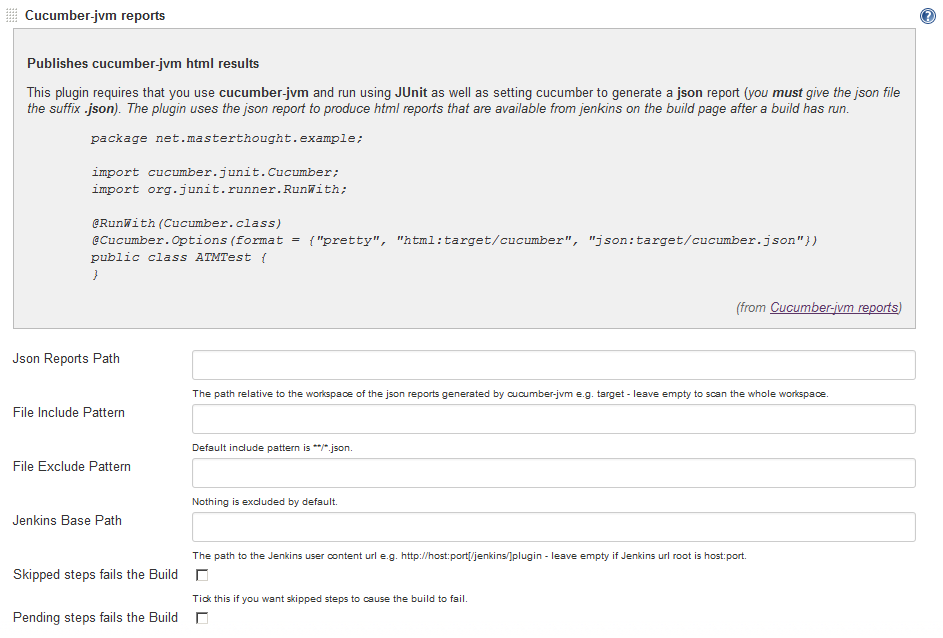
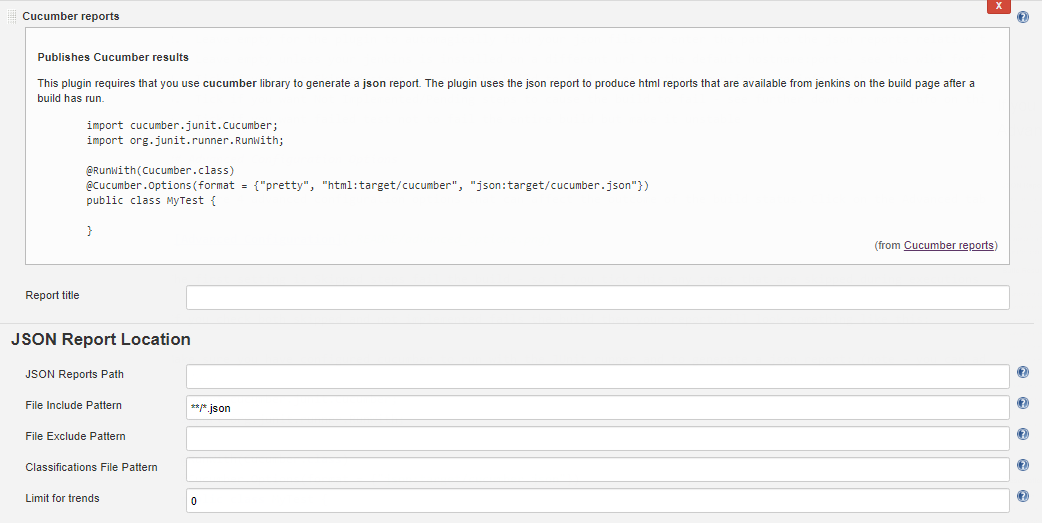
Publish multiple reports (#344)

diff --git a/src/main/java/net/masterthought/jenkins/CucumberReportPublisher.java b/src/main/java/net/masterthought/jenkins/CucumberReportPublisher.java
@@ -1,13 +1,8 @@
 package net.masterthought.jenkins;
 
-import java.io.File;
-import java.io.IOException;
-import java.io.InputStream;
-import java.io.Serializable;
-import java.util.ArrayList;
-import java.util.Collections;
-import java.util.List;
-import java.util.Properties;
+import java.io.*;
+import java.nio.charset.StandardCharsets;
+import java.util.*;
 
 import hudson.AbortException;
 import hudson.Extension;
@@ -50,6 +45,7 @@ public class CucumberReportPublisher extends Publisher implements SimpleBuildSte
     private final String fileIncludePattern;
     private String fileExcludePattern = "";
     private String jsonReportDirectory = "";
+    private String reportTitle = "";
 
     private int failedStepsNumber;
     private int skippedStepsNumber;
@@ -91,11 +87,13 @@ public class CucumberReportPublisher extends Publisher implements SimpleBuildSte
      */
     protected void keepBackwardCompatibility() {
         if (classifications == null) {
-            classifications = Collections.emptyList();
+            classifications = new ArrayList<>();
         }
         if (sortingMethod == null) {
             sortingMethod = SortingMethod.NATURAL.name();
         }
+        
+        reportTitle = StringUtils.defaultString(reportTitle);
     }
 
     private static void log(TaskListener listener, String message) {
@@ -145,6 +143,26 @@ public class CucumberReportPublisher extends Publisher implements SimpleBuildSte
         this.jsonReportDirectory = jsonReportDirectory;
     }
 
+    public String getReportTitle() {
+        return reportTitle;
+    }
+
+    @DataBoundSetter
+    public void setReportTitle(String reportTitle) {
+        this.reportTitle = StringUtils.isEmpty(reportTitle) ? "" : reportTitle.trim();
+    }
+
+    public String getDirectorySuffix() {
+        return StringUtils.isEmpty(this.reportTitle)
+                ? ""
+                : UUID.nameUUIDFromBytes(reportTitle.getBytes(StandardCharsets.UTF_8)).toString();
+    }
+
+    public String getDirectorySuffixWithSeparator() {
+        return StringUtils.isEmpty(this.reportTitle)
+                ? ""
+                : ReportBuilder.SUFFIX_SEPARATOR + getDirectorySuffix();
+    }
 
     public int getFailedStepsNumber() {
         return failedStepsNumber;
@@ -342,12 +360,27 @@ public class CucumberReportPublisher extends Publisher implements SimpleBuildSte
             throws InterruptedException, IOException {
 
         keepBackwardCompatibility();
+        if (StringUtils.isNotEmpty(reportTitle)) {
+
+            classifications.add(new Classification(Messages.Classification_ReportTitle(), reportTitle));
+        }
 
         generateReport(run, workspace, listener);
 
-        SafeArchiveServingRunAction caa = new SafeArchiveServingRunAction(run, new File(run.getRootDir(), ReportBuilder.BASE_DIRECTORY),
-                ReportBuilder.BASE_DIRECTORY, ReportBuilder.HOME_PAGE, CucumberReportBaseAction.ICON_NAME, Messages.SidePanel_DisplayName());
-        run.replaceAction(caa);
+        SafeArchiveServingRunAction caa = new SafeArchiveServingRunAction(
+                run,
+                new File(run.getRootDir(), ReportBuilder.BASE_DIRECTORY + getDirectorySuffixWithSeparator()),
+                ReportBuilder.BASE_DIRECTORY + getDirectorySuffixWithSeparator(),
+                ReportBuilder.HOME_PAGE,
+                CucumberReportBaseAction.ICON_NAME,
+                getActionName(),
+                getDirectorySuffixWithSeparator()
+        );
+        run.addAction(caa);
+    }
+
+    private String getActionName() {
+        return StringUtils.isEmpty(reportTitle) ? Messages.SidePanel_DisplayNameNoTitle() : String.format(Messages.SidePanel_DisplayName(), reportTitle);
     }
 
     private void generateReport(Run<?, ?> build, FilePath workspace, TaskListener listener) throws InterruptedException, IOException {
@@ -355,11 +388,9 @@ public class CucumberReportPublisher extends Publisher implements SimpleBuildSte
         log(listener, "Using Cucumber Reports version " + getPomVersion(listener));
 
         // create directory where trends will be stored
-        final File trendsDir = new File(build.getParent().getRootDir(), TRENDS_DIR);
-        if (!trendsDir.exists()) {
-            if (!trendsDir.mkdir()) {
-                throw new IllegalStateException("Could not create directory for trends: " + trendsDir);
-            }
+        final File trendsDir = new File(build.getParent().getRootDir(), TRENDS_DIR + getDirectorySuffixWithSeparator());
+        if (!trendsDir.exists() && !trendsDir.mkdirs()) {
+            throw new IllegalStateException("Could not create directory for trends: " + trendsDir);
         }
 
         // source directory (possibly on slave)
@@ -368,8 +399,13 @@ public class CucumberReportPublisher extends Publisher implements SimpleBuildSte
         FilePath inputDirectory = new FilePath(workspace, parsedJsonReportDirectory);
 
         File directoryForReport = build.getRootDir();
-        File directoryJsonCache = new File(directoryForReport, ReportBuilder.BASE_DIRECTORY + File.separatorChar + ".cache");
-        if (!directoryJsonCache.exists() && !directoryJsonCache.mkdirs()) {
+        File directoryJsonCache = new File(
+                directoryForReport,
+                ReportBuilder.BASE_DIRECTORY + getDirectorySuffixWithSeparator() + File.separatorChar + ".cache"
+        );
+        if (directoryJsonCache.exists()) {
+            throw new IllegalStateException("Cache directory " + directoryJsonCache + " already exists. Another report with the same title already generated?");
+        } else if (!directoryJsonCache.mkdirs()) {
             throw new IllegalStateException("Could not create directory for cache: " + directoryJsonCache);
         }
         // copies JSON files to cache...
@@ -398,6 +434,7 @@ public class CucumberReportPublisher extends Publisher implements SimpleBuildSte
 
         Configuration configuration = new Configuration(directoryForReport, projectName);
         configuration.setBuildNumber(buildNumber);
+        configuration.setDirectorySuffix(getDirectorySuffix());
         configuration.setTrends(new File(trendsDir, TRENDS_FILE), trendsLimit);
         configuration.setSortingMethod(SortingMethod.valueOf(sortingMethod));
         if (mergeFeaturesById) {

diff --git a/src/main/java/net/masterthought/jenkins/SafeArchiveServingRunAction.java b/src/main/java/net/masterthought/jenkins/SafeArchiveServingRunAction.java
@@ -23,9 +23,11 @@ public class SafeArchiveServingRunAction extends SafeArchiveServingAction implem
     private static final Logger LOGGER = Logger.getLogger(SafeArchiveServingRunAction.class.getName());
 
     private Run<?, ?> run;
+    private String directorySuffix;
 
-	public SafeArchiveServingRunAction(@Nonnull Run<?, ?> r, File rootDir, String urlName, String indexFile, String iconName, String title, String... safeExtensions) {
+	public SafeArchiveServingRunAction(@Nonnull Run<?, ?> r, File rootDir, String urlName, String indexFile, String iconName, String title, String directorySuffix, String... safeExtensions) {
         super(rootDir, urlName, indexFile, iconName, title, safeExtensions);
+        this.directorySuffix = directorySuffix;
 		this.run = r;
     }
 
@@ -46,6 +48,6 @@ public class SafeArchiveServingRunAction extends SafeArchiveServingAction implem
 
     @Override
     public Collection<? extends Action> getProjectActions() {
-    	return Collections.singleton(new CucumberReportProjectAction(run.getParent()));
+    	return Collections.singleton(new CucumberReportProjectAction(run.getParent(), getDisplayName(), directorySuffix));
     }
 }

diff --git a/src/main/java/net/masterthought/jenkins/CucumberReportProjectAction.java b/src/main/java/net/masterthought/jenkins/CucumberReportProjectAction.java
@@ -9,19 +9,28 @@ import net.masterthought.cucumber.ReportBuilder;
 public class CucumberReportProjectAction extends CucumberReportBaseAction implements ProminentProjectAction {
 
     private final Job<?, ?> project;
+    private String reportTitle;
+    private String directorySuffix;
 
-    public CucumberReportProjectAction(Job<?, ?> project) {
+    public CucumberReportProjectAction(Job<?, ?> project, String reportTitle, String directorySuffix) {
+        this.reportTitle = reportTitle;
         this.project = project;
+        this.directorySuffix = directorySuffix;
     }
 
     @Override
     public String getUrlName() {
         Run<?, ?> run = this.project.getLastCompletedBuild();
         if (run != null) {
-            return run.getNumber() + "/" + ReportBuilder.BASE_DIRECTORY + "/" + ReportBuilder.HOME_PAGE;
+            return run.getNumber() + "/" + ReportBuilder.BASE_DIRECTORY + directorySuffix + "/" + ReportBuilder.HOME_PAGE;
         }
 
         // none build was completed, report is yet not available
         return "";
+    }
+
+    @Override
+    public String getDisplayName() {
+        return reportTitle;
     }
 }

diff --git a/src/main/java/net/masterthought/jenkins/CucumberReportBaseAction.java b/src/main/java/net/masterthought/jenkins/CucumberReportBaseAction.java
@@ -17,9 +17,4 @@ public abstract class CucumberReportBaseAction implements Action {
     public String getIconFileName() {
         return ICON_NAME;
     }
-
-    @Override
-    public String getDisplayName() {
-        return Messages.Plugin_DisplayName();
-    }
 }

diff --git a/README.md b/README.md
@@ -30,23 +30,24 @@ You must use a **Freestyle project type** in jenkins.
 With the cucumber-reports plugin installed in Jenkins, you simply check the "Publish cucumber results as a report" box in the
 publish section of the build config:
 
-![](https://github.com/jenkinsci/cucumber-reports-plugin/raw/master/.README/publish-box.png)
+![](.README/publish-box.png)
 
 If you need more control over the plugin you can click the Advanced button for more options:
 
-![](https://github.com/jenkinsci/cucumber-reports-plugin/raw/master/.README/advanced-publish-box.png)
+![](.README/advanced-publish-box.png)
 
-1.  Leave empty for the plugin to automagically find your json files or enter the path to the json reports relative to the workspace if for some reason the automagic doesn't work for you
-2.  Leave empty unless your jenkins is installed on a different url to the default hostname:port - see the wiki for further info on this option
-3.  Tick if you want Skipped steps to cause the build to fail - see further down for more info on this
-4.  Tick if you want Not Implemented/Pending steps to cause the build to fail - see further down for more info on this
-5.  Tick if you want failed test not to fail the entire build but make it unstable
+1.  Report title can be used to publish multiple reports from the same job - reports with different titles are stored separately; or leave blank for a single report with no title
+2.  Leave empty for the plugin to automagically find your json files or enter the path to the json reports relative to the workspace if for some reason the automagic doesn't work for you
+3.  Leave empty unless your jenkins is installed on a different url to the default hostname:port - see the wiki for further info on this option
+4.  Tick if you want Skipped steps to cause the build to fail - see further down for more info on this
+5.  Tick if you want Not Implemented/Pending steps to cause the build to fail - see further down for more info on this
+6.  Tick if you want failed test not to fail the entire build but make it unstable
 
 ## Advanced Configuration Options
 
 There are 4 advanced configuration options that can affect the outcome of the build status. Click on the Advanced tab in the configuration screen:
 
-![Advanced Configuration](https://github.com/jenkinsci/cucumber-reports-plugin/raw/master/.README/advanced_options.png)
+![Advanced Configuration](.README/advanced_options.png)
 
 The first setting is Skipped steps fail the build - so if you tick this any steps that are skipped during executions will be marked as failed and will cause the build to fail:
 
@@ -73,6 +74,7 @@ Typical step for report generation:
 node {
     stage('Generate HTML report') {
         cucumber buildStatus: 'UNSTABLE',
+                reportTitle: 'My report',
                 fileIncludePattern: '**/*.json',
                 trendsLimit: 10,
                 classifications: [
@@ -97,6 +99,7 @@ post {
                         [key: 'Commit', value: '<a href="${GERRIT_CHANGE_URL}">${GERRIT_PATCHSET_REVISION}</a>'],
                         [key: 'Submitter', value: '${GERRIT_PATCHSET_UPLOADER_NAME}']
                 ],
+                reportTitle: 'My report',
                 fileIncludePattern: '**/*cucumber-report.json',
                 sortingMethod: 'ALPHABETICAL',
                 trendsLimit: 100
@@ -104,7 +107,7 @@ post {
 }
  ```
 
-### Raw DSL - This should be utilized after build steps
+### Raw DSL - This should be utilized after build steps (note that the title is not specified in this example)
 
 ```groovy
 configure { project ->
